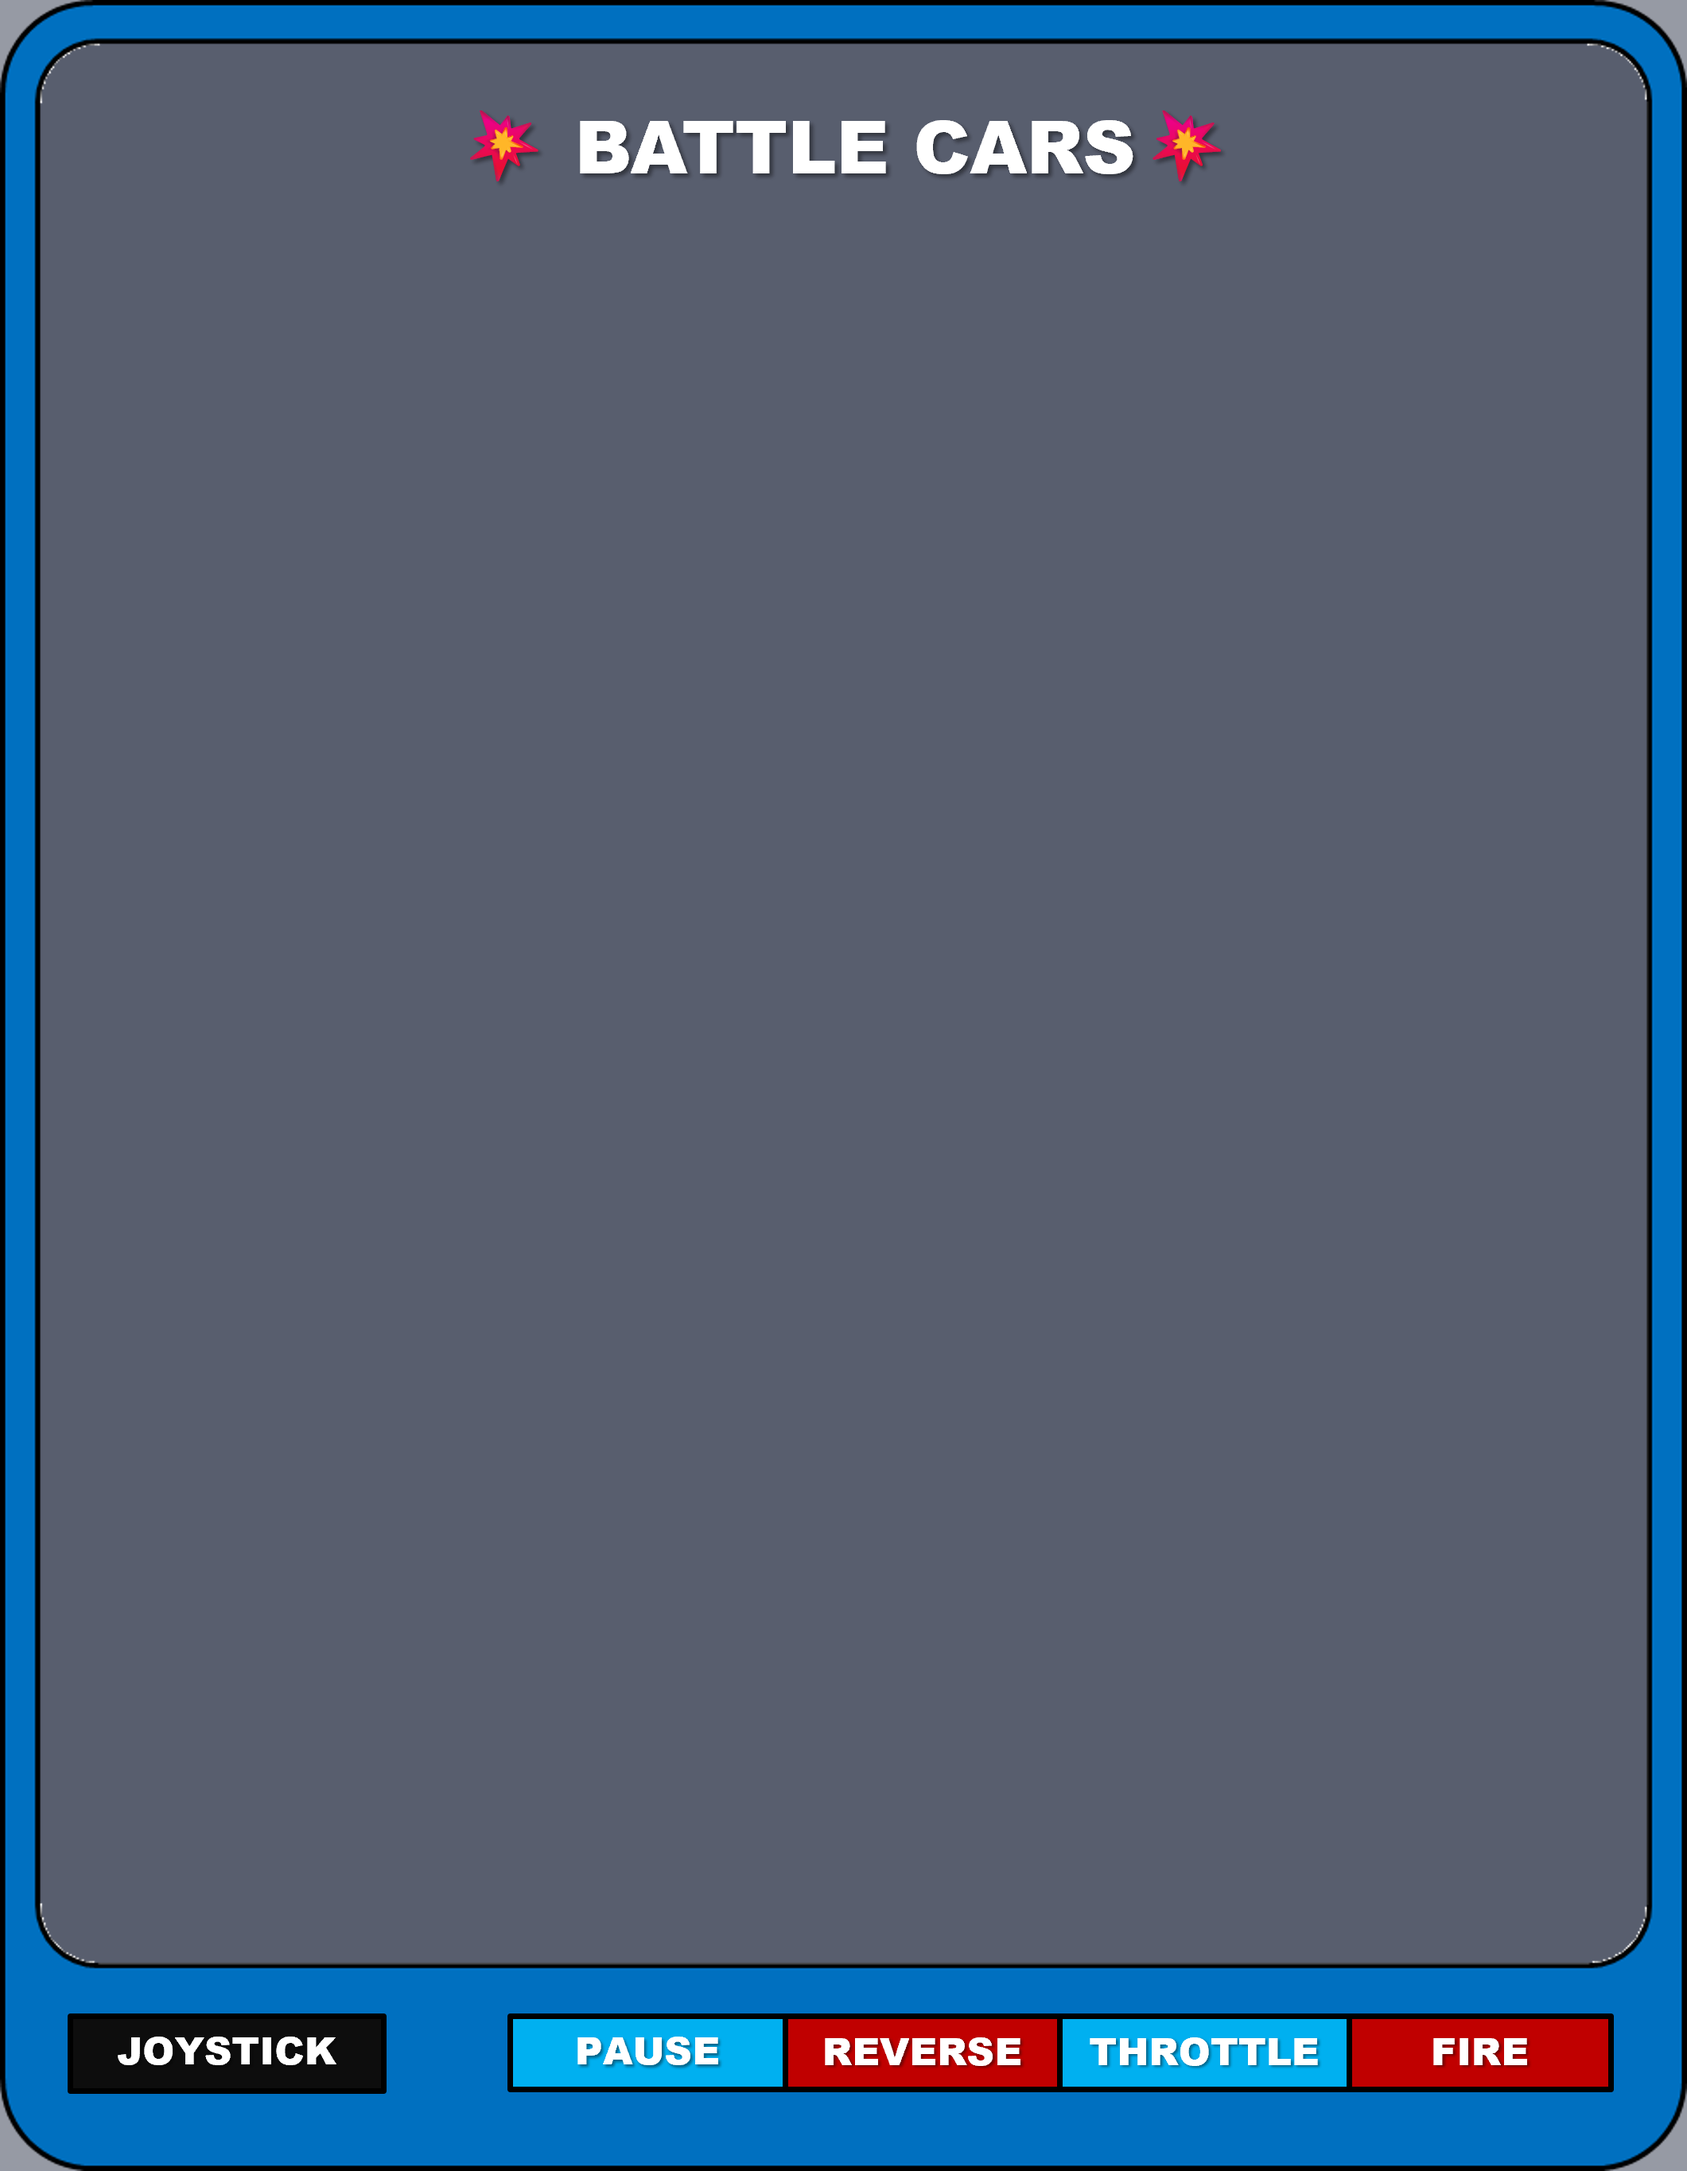
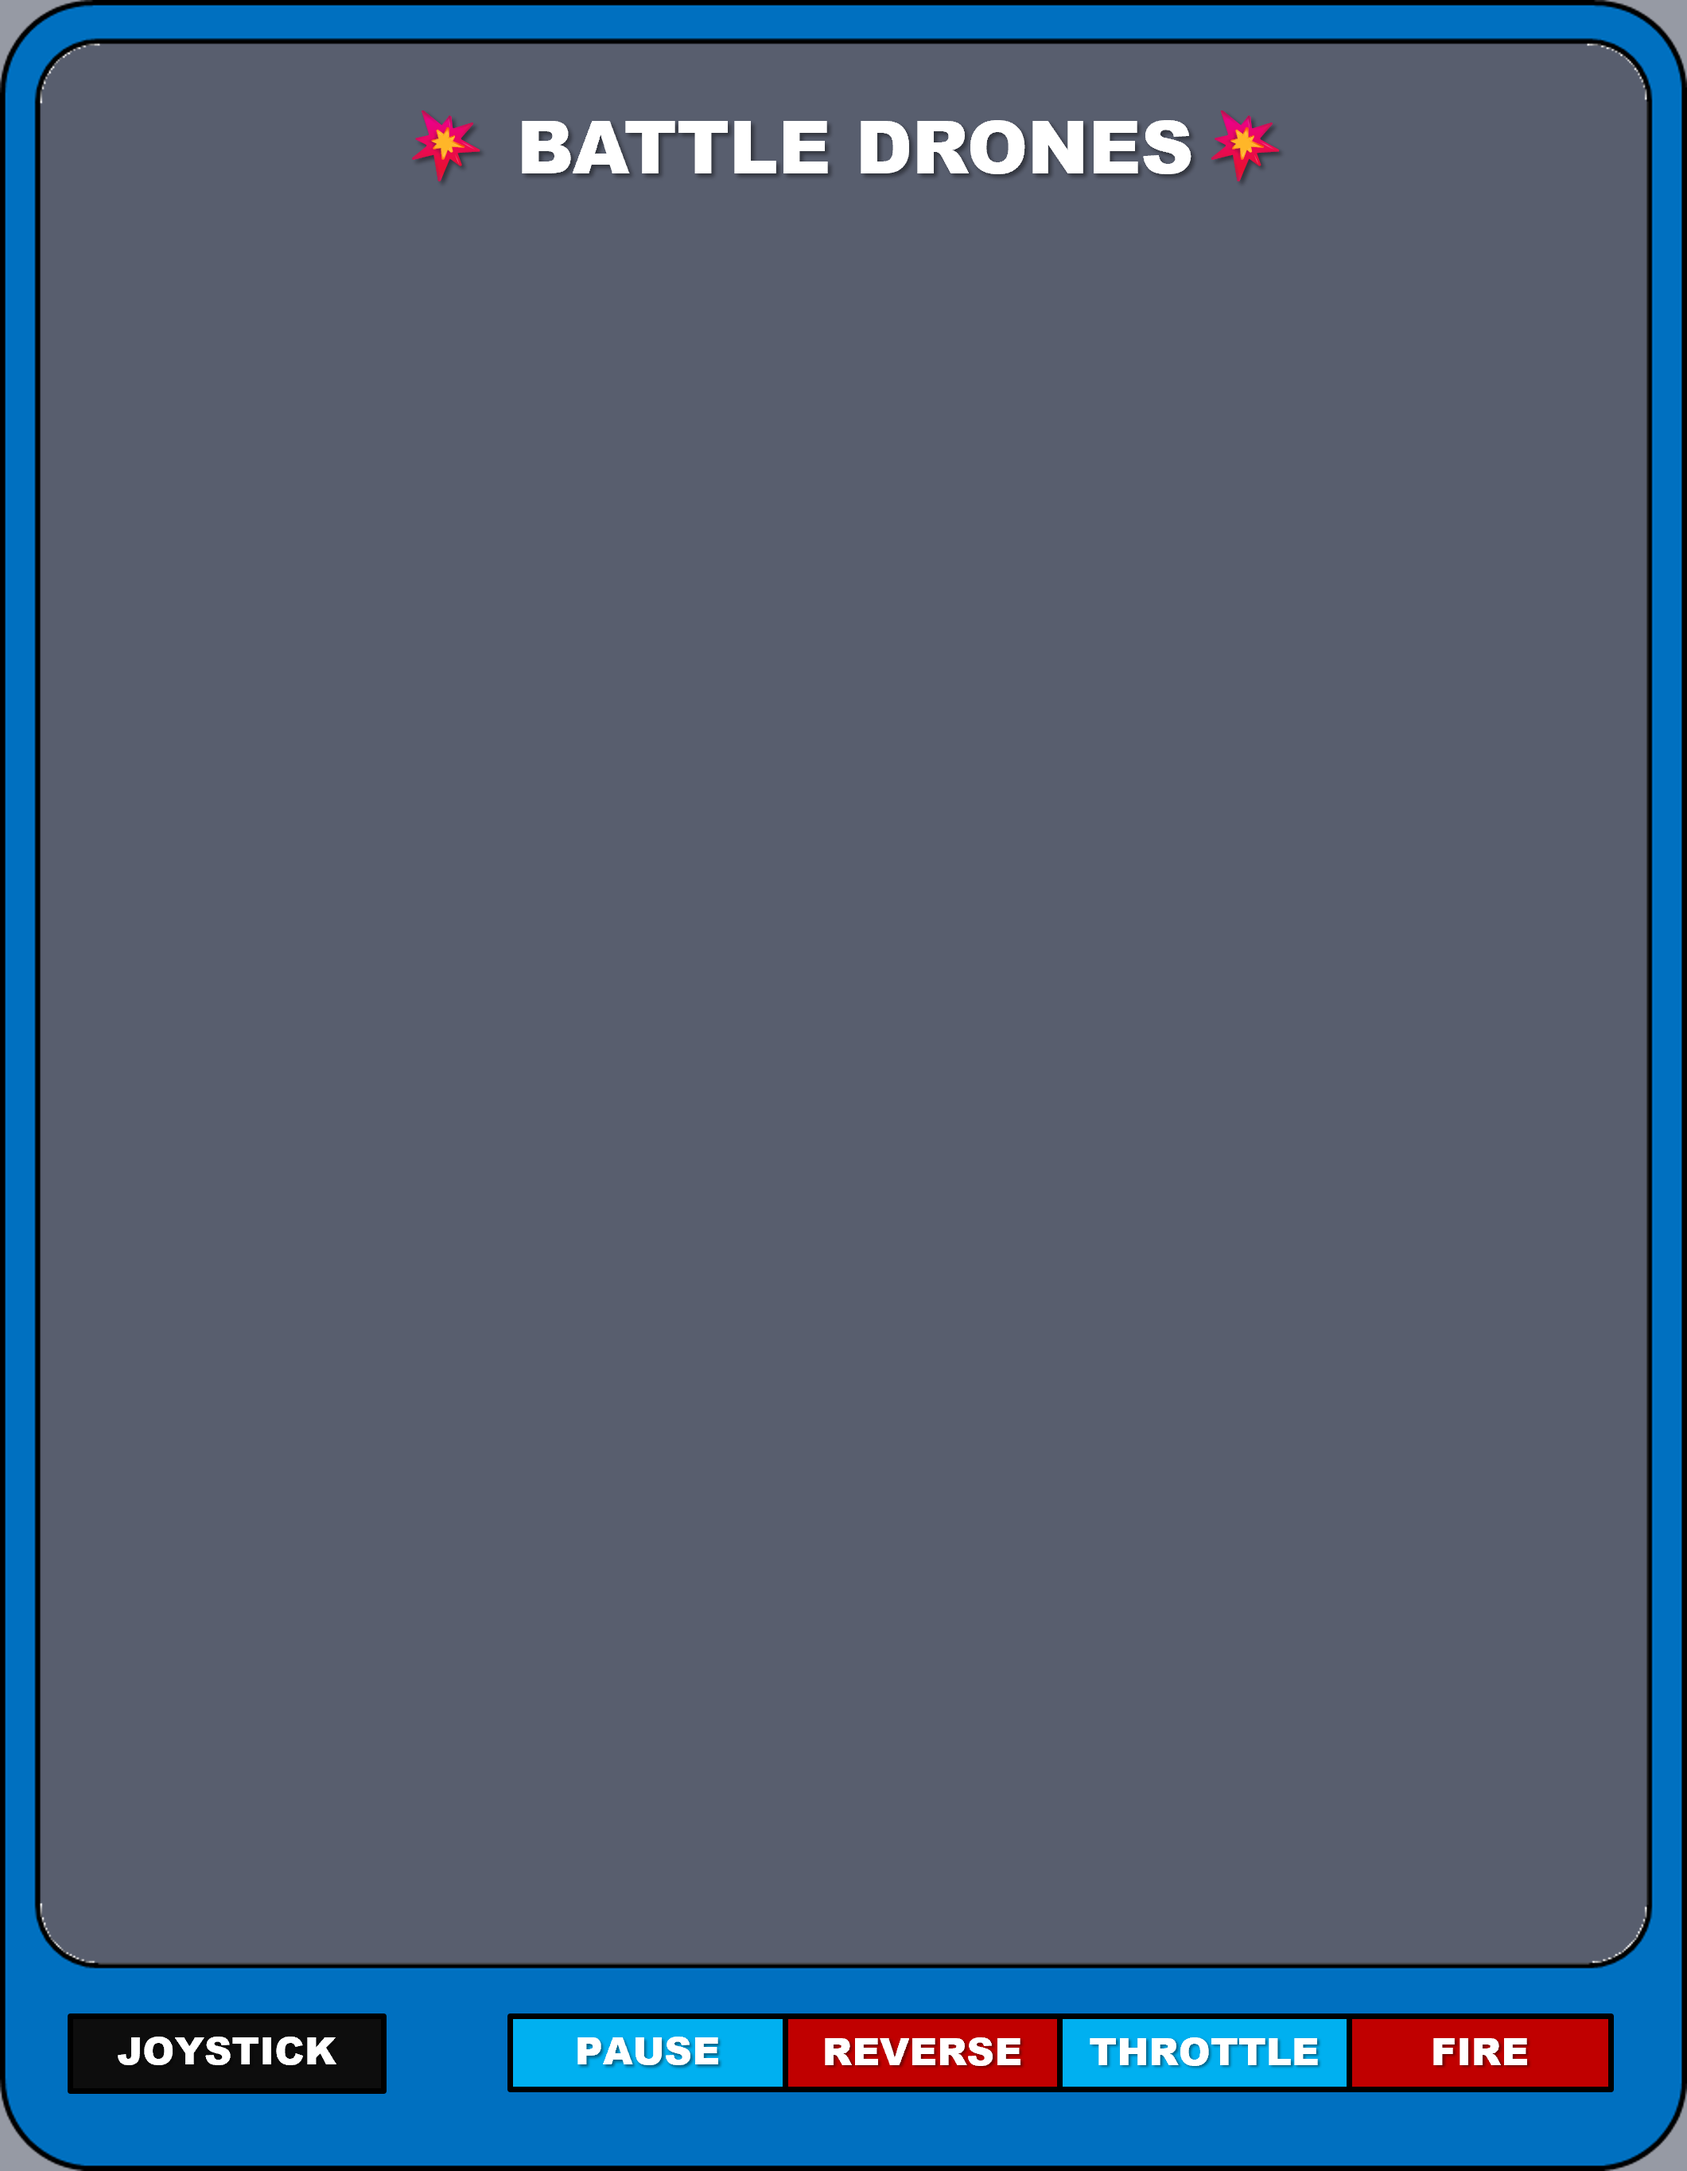
renaming occurances of car to drone

Changed region(s): [[0.2489, 0.0311, 0.7468, 0.0934]]

diff --git a/source/player.c b/source/player.c
@@ -2,8 +2,8 @@
 #include "game.h"
 
 #define ACCELERATION_MAX 2
-#define CAR_WIDTH 12 // empirical value
-#define CAR_HEIGHT 16 // empirical value
+#define DRONE_WIDTH 14 // empirical value
+#define DRONE_HEIGHT 14 // empirical value
 
 // boundary checks: (1) determine direction (2) check for boundary
 static inline __attribute__((always_inline)) int would_not_hit_horizontal_boundary(const struct player_t* player, int delta)
@@ -18,22 +18,22 @@ static inline __attribute__((always_inline)) int would_not_hit_vertical_boundary
 		(delta > 0 && player->position.x + delta < 105); // right boundary
 }
 
-int check_for_car_collision(const struct player_t* car1, const struct player_t* car2)
+int check_for_drone_collision(const struct player_t* drone1, const struct player_t* drone2)
 {
-	// calculate distance between car1 and car2
-	int diff_x = car1->position.x - car2->position.x;
+	// calculate distance between drone1 and drone2
+	int diff_x = drone1->position.x - drone2->position.x;
 	if (diff_x < 0)
 	{
 		diff_x = -diff_x;
 	}
-	int diff_y = car1->position.y - car2->position.y;
+	int diff_y = drone1->position.y - drone2->position.y;
 	if (diff_y < 0)
 	{
 		diff_y = -diff_y;
 	}
 	// check for collision
-	// TODO: does only work now, without rotation of car
-	return (diff_x < (CAR_WIDTH) && diff_y < (CAR_HEIGHT));
+	// TODO: does only work now, without rotation of drone
+	return (diff_x < (DRONE_WIDTH) && diff_y < (DRONE_HEIGHT));
 }
 
 void move_player(struct player_t* player)
@@ -151,7 +151,7 @@ void move_player(struct player_t* player)
 			break;
 	}
 
-	// check collisions with other cars
+	// check collisions with other drones
 	for (unsigned int i = 0; i < current_game.no_of_players; i++)
 	{
 		struct player_t* other = &current_game.players[i];
@@ -160,7 +160,7 @@ void move_player(struct player_t* player)
 		{
 			continue;
 		}
-		if (check_for_car_collision(player, other))
+		if (check_for_drone_collision(player, other))
 		{
 			// Collision detected => revert movement; stop acceleration
 			player->position = original_position;

diff --git a/source/battle.c b/source/battle.c
@@ -67,8 +67,8 @@ void battle_play(void)
 			dp_VIA_t1_cnt_lo = 0x7f; // set scaling factor for positioning
 			Moveto_d(current_game.players[i].position.y, current_game.players[i].position.x); // move beam to object coordinates
 			// Moveto_d(current_game.players[i].position.y, current_game.players[i].position.y); // move beam to object coordinates
-			dp_VIA_t1_cnt_lo = 24; // set scaling factor for drawing; TODO: in future, use player.scaling_factor (POWER UP)
-			Draw_VLp(&vectors_battle_car); // draw vector list
+			dp_VIA_t1_cnt_lo = 0x7f; // set scaling factor for drawing; TODO: in future, use player.scaling_factor (POWER UP)
+			Draw_VLp(&DroneVectorList); // draw vector list
 #if DEBUG_ENABLED
 			// temporary disabled
 			// debugPos[0] = (char)('0' + (current_game.players[i].position.y / 10));

diff --git a/source/cartridge.c b/source/cartridge.c
@@ -7,7 +7,6 @@
 #include "cartridge.h"
 #include "utils/utils.h"
 
-
 // ---------------------------------------------------------------------------
 
 const struct cartridge_t game_header __attribute__((section(".cartridge"), used)) = {
@@ -16,8 +15,8 @@ const struct cartridge_t game_header __attribute__((section(".cartridge"), used)
 	.title_height = -8,
 	.title_width = 80,
 	.title_y = 24,
-	.title_x = CENTER_TEXT(TEXT_WIDTH_L, 11),
-	.title = "BATTLE CARS\x80" // note that \x00 is automatically appended!
+	.title_x = CENTER_TEXT(TEXT_WIDTH_L, 13),
+	.title = "BATTLE DRONES\x80" // note that \x00 is automatically appended!
 };
 
 // ***************************************************************************

diff --git a/source/player.h b/source/player.h
@@ -17,10 +17,11 @@ struct player_t
 	// score
 	// status
 	// coordinate y,x (union?)
-	// struct battlecar_t battlecar;
 	// struct input_t (*get_input)(struct player_t*); // TODO: ptr?
 	void (*get_input)(struct player_t*); // TODO: ptr?
+	// unsigned int velocity;
+	// unsigned int scaling_factor;
 };
 
 void move_player(struct player_t* player);
-int check_for_car_collision(const struct player_t* car1, const struct player_t* car2);
+int check_for_drone_collision(const struct player_t* drone1, const struct player_t* drone2);

diff --git a/source/main.c b/source/main.c
@@ -2,7 +2,6 @@
 // main
 // ***************************************************************************
 
-#include "car.h"
 #include "game.h"
 #include <vectrex.h>
 
@@ -13,8 +12,6 @@
 // warm reset: skip vectrex logo and keep ram data
 // after each reset, the game title screen is shown and then main() is called
 // ---------------------------------------------------------------------------
-
-// Original main, commented out for displaying vectors_car[]
 
 int main(void)
 {

diff --git a/doc/Battle_Cars.md b/doc/Battle_Cars.md
@@ -1,8 +1,8 @@
-# Battle Cars
+# Battle Drones
 
 ## Principle
-Battle Cars is a top down perspective game, where the player drives a car and has to shoot down other cars.
-Each car is equipped with a canon on the front.
+Battle Drones is a top down perspective game, where the player controles a drone and has to shoot down other drones.
+Each drone is equipped with a canon.
 Randomly spawned power-ups can be collected to make the game more intersting and diverse.
 
 
@@ -37,8 +37,8 @@ Power-ups do spawn randomly and can be collected by the player.
 ## More Ideas:
 - Add more Game Modes: Best of 3, Increasing Speed/Damage, ...
 - collision: should bounce like go karts
-- "HDR": bullets are mor bright than everything else
-- different car vector lists can indicate condition of car (much damage/ damaged slightly / as new)
+- "HDR": bullets are more bright than everything else
+- different drone vector lists can indicate condition of drone (much damage/ damaged slightly / as new)
 
 TODO: same speed diagonally vs horizonzal/vertival
 
